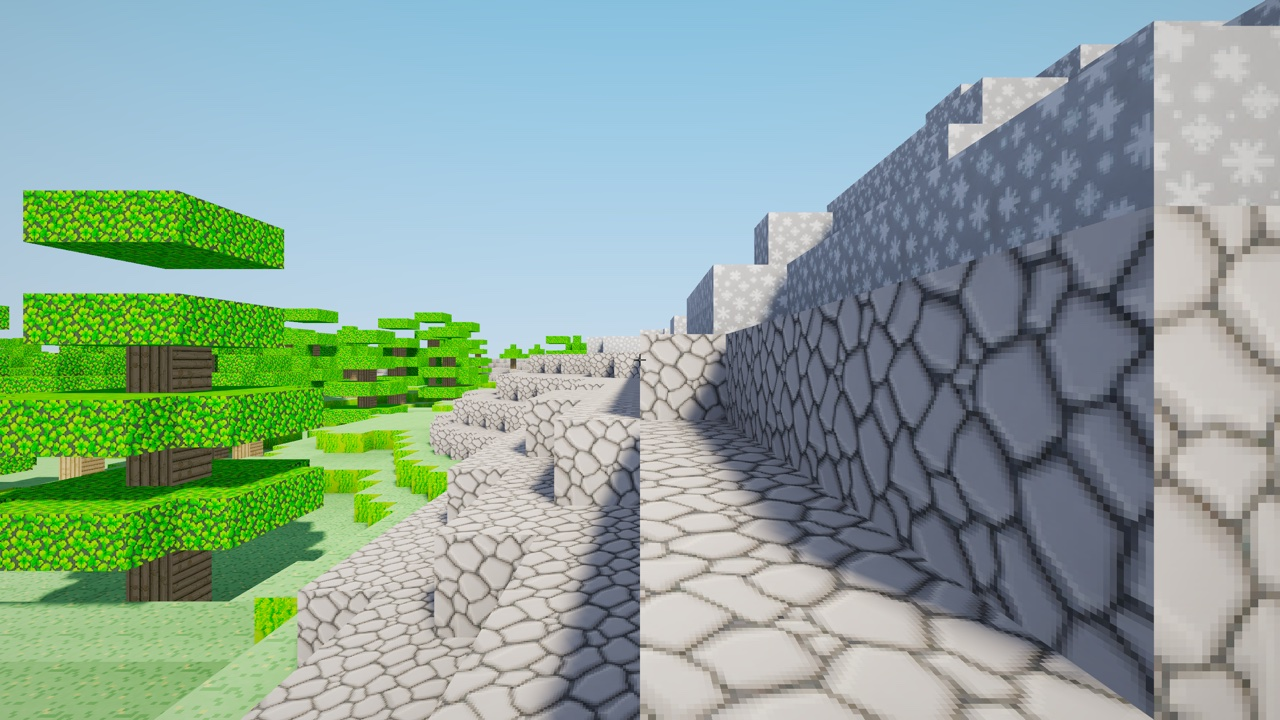
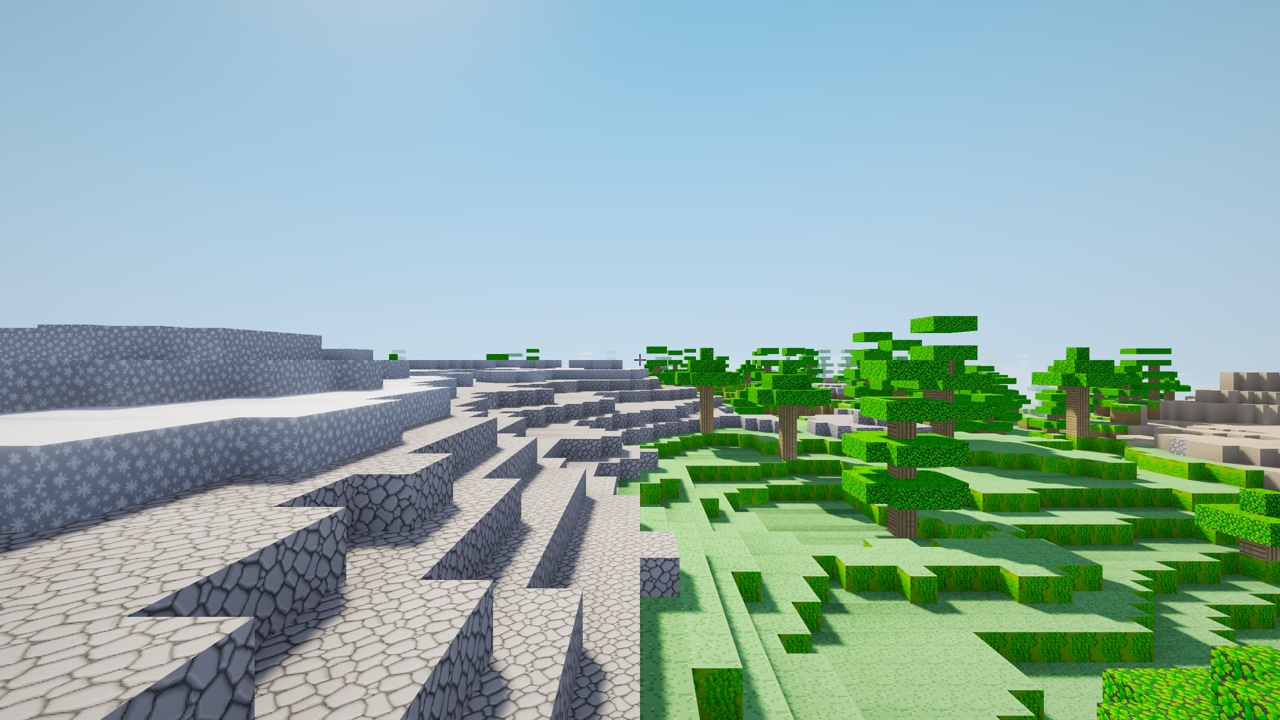
docs: reshoot ground screenshot to a stronger eye-level pose
The previous ground shot framed leaf canopies in extreme close-up,
where the greedy mesher's slab-merged foliage reads as a glitch.
Reshoot at eye level looking across a cobble terrace so the raking
CSM shadows, AO, and texture array carry the frame, with trees at
mid-distance where they read as trees. Caption updated to match.

diff --git a/README.md b/README.md
@@ -10,7 +10,7 @@ out of it. Numbers below are from my Apple M4.
 
 | ![Ground level](docs/media/ground.jpg) | ![Inside a cave](docs/media/cave.jpg) |
 | :---: | :---: |
-| Ground level: CSM shadows, vertex AO, 64px mipmapped texture array | Inside a cave tunnel: occlusion culling draws **7 sections instead of 436**, byte-identical to the unculled render |
+| Eye level: raking CSM shadows across a cobble terrace, vertex AO, 64px mipmapped texture array | Inside a cave tunnel: occlusion culling draws **7 sections instead of 436**, byte-identical to the unculled render |
 
 Screenshots are reproducible: `./build/voxel_engine --screenshot-after 60
 --pose center` renders a deterministic pose (locked camera, frozen shader
